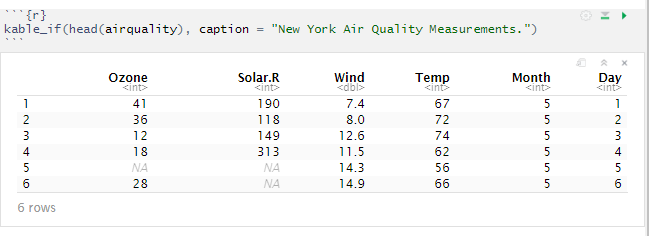
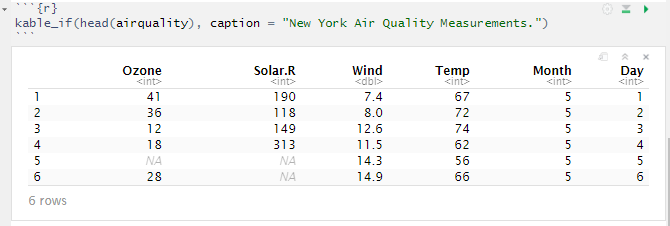
Add kable_if post

diff --git a/_posts/2019-11-17-quicker-knitr-kables-in-rstudio-notebook.md b/_posts/2019-11-17-quicker-knitr-kables-in-rstudio-notebook.md
@@ -1,0 +1,175 @@
+---
+title: "Quicker knitr kables in RStudio notebook"
+
+
+date: "November 17, 2019"
+layout: post
+---
+
+
+<section class="main-content">
+<div id="the-setup" class="section level2">
+<h2>The setup</h2>
+<p>The <a href="https://rstudio.com/">RStudio</a> notebook is a great interactive tool to build a statistical report. Being able to see statistics and graphs right on the fly probably has saved me countless hours, especially when building complex reports.</p>
+<p>However, one thing that has always bothered me was the way tables are displayed in the notebook with <a href="https://CRAN.R-project.org/package=knitr">knitr</a>’s <code>kable</code> function. For example, consider the <code>airquality</code> data set:</p>
+<div class="sourceCode"><pre class="sourceCode r"><code class="sourceCode r"><span class="kw">head</span>(airquality)</code></pre></div>
+<pre><code>##   Ozone Solar.R Wind Temp Month Day
+## 1    41     190  7.4   67     5   1
+## 2    36     118  8.0   72     5   2
+## 3    12     149 12.6   74     5   3
+## 4    18     313 11.5   62     5   4
+## 5    NA      NA 14.3   56     5   5
+## 6    28      NA 14.9   66     5   6</code></pre>
+<p>To get a nice table in your report you type</p>
+<div class="sourceCode"><pre class="sourceCode r"><code class="sourceCode r">knitr<span class="op">::</span><span class="kw">kable</span>(<span class="kw">head</span>(airquality), <span class="dt">caption =</span> <span class="st">&quot;New York Air Quality Measurements.&quot;</span>)</code></pre></div>
+<p>which shows up nicely formatted in the final output</p>
+<table>
+<caption>New York Air Quality Measurements.</caption>
+<thead>
+<tr class="header">
+<th align="right">Ozone</th>
+<th align="right">Solar.R</th>
+<th align="right">Wind</th>
+<th align="right">Temp</th>
+<th align="right">Month</th>
+<th align="right">Day</th>
+</tr>
+</thead>
+<tbody>
+<tr class="odd">
+<td align="right">41</td>
+<td align="right">190</td>
+<td align="right">7.4</td>
+<td align="right">67</td>
+<td align="right">5</td>
+<td align="right">1</td>
+</tr>
+<tr class="even">
+<td align="right">36</td>
+<td align="right">118</td>
+<td align="right">8.0</td>
+<td align="right">72</td>
+<td align="right">5</td>
+<td align="right">2</td>
+</tr>
+<tr class="odd">
+<td align="right">12</td>
+<td align="right">149</td>
+<td align="right">12.6</td>
+<td align="right">74</td>
+<td align="right">5</td>
+<td align="right">3</td>
+</tr>
+<tr class="even">
+<td align="right">18</td>
+<td align="right">313</td>
+<td align="right">11.5</td>
+<td align="right">62</td>
+<td align="right">5</td>
+<td align="right">4</td>
+</tr>
+<tr class="odd">
+<td align="right">NA</td>
+<td align="right">NA</td>
+<td align="right">14.3</td>
+<td align="right">56</td>
+<td align="right">5</td>
+<td align="right">5</td>
+</tr>
+<tr class="even">
+<td align="right">28</td>
+<td align="right">NA</td>
+<td align="right">14.9</td>
+<td align="right">66</td>
+<td align="right">5</td>
+<td align="right">6</td>
+</tr>
+</tbody>
+</table>
+<p><br></p>
+</div>
+<div id="the-problem" class="section level2">
+<h2>The problem</h2>
+<p><em>But</em> in the interactive RStudio notebook session the table looks something like the following:</p>
+<p><img src="{{ site.url }}{{ site.baseurl }}\images\kable.png" width="100%" /></p>
+<p>So first of all, the formatting is not that great. Secondly, the table chunk consumes way too much space of the notebook and, at times, can be very cumbersome to scroll. Also for bigger tables (and depending on your hardware) it can take up to a few seconds for the table to be built.</p>
+<p>So often when I was using <code>kable</code>, I felt my workflow being disrupted. In the interactive session I want a table being built quickly and in a clean format. Now, using the simple <code>print</code> function you’ll get exactly this</p>
+<p><img src="{{ site.url }}{{ site.baseurl }}\images\print-table.png" width="100%" /></p>
+<p>So my initial quick-and-dirty workaround during the interactive session was to comment out the <code>knitr</code> statement and use the print function.</p>
+<div class="sourceCode"><pre class="sourceCode r"><code class="sourceCode r"><span class="co">#knitr::kable(head(airquality), caption = &quot;New York Air Quality Measurements.&quot;)</span>
+<span class="kw">print</span>(<span class="kw">head</span>(airquality))</code></pre></div>
+<p>Then, only when creating the final report, I would comment out the <code>print</code> function and use <code>kable</code> again. Of course, there is a much more elegant and easier solution to get this without having to switch between functions.</p>
+</div>
+<div id="the-solution" class="section level2">
+<h2>The solution</h2>
+<p>We define a simple wrapper, which chooses the corresponding function depending on the context:</p>
+<div class="sourceCode"><pre class="sourceCode r"><code class="sourceCode r">kable_if &lt;-<span class="st"> </span><span class="cf">function</span>(x, ...) <span class="cf">if</span> (<span class="kw">interactive</span>()) <span class="kw">print</span>(x, ...) <span class="cf">else</span> knitr<span class="op">::</span><span class="kw">kable</span>(x, ...)</code></pre></div>
+<p>Then you simply call it as you would invoke <code>kable</code> and now you get both, the quick table in the interactive session … <img src="{{ site.url }}{{ site.baseurl }}\images\kable_if.png" width="100%" /></p>
+<p>… and a formatted table in the report.</p>
+<div class="sourceCode"><pre class="sourceCode r"><code class="sourceCode r"><span class="kw">kable_if</span>(<span class="kw">head</span>(airquality), <span class="dt">caption =</span> <span class="st">&quot;New York Air Quality Measurements.&quot;</span>)</code></pre></div>
+<table>
+<caption>New York Air Quality Measurements.</caption>
+<thead>
+<tr class="header">
+<th align="right">Ozone</th>
+<th align="right">Solar.R</th>
+<th align="right">Wind</th>
+<th align="right">Temp</th>
+<th align="right">Month</th>
+<th align="right">Day</th>
+</tr>
+</thead>
+<tbody>
+<tr class="odd">
+<td align="right">41</td>
+<td align="right">190</td>
+<td align="right">7.4</td>
+<td align="right">67</td>
+<td align="right">5</td>
+<td align="right">1</td>
+</tr>
+<tr class="even">
+<td align="right">36</td>
+<td align="right">118</td>
+<td align="right">8.0</td>
+<td align="right">72</td>
+<td align="right">5</td>
+<td align="right">2</td>
+</tr>
+<tr class="odd">
+<td align="right">12</td>
+<td align="right">149</td>
+<td align="right">12.6</td>
+<td align="right">74</td>
+<td align="right">5</td>
+<td align="right">3</td>
+</tr>
+<tr class="even">
+<td align="right">18</td>
+<td align="right">313</td>
+<td align="right">11.5</td>
+<td align="right">62</td>
+<td align="right">5</td>
+<td align="right">4</td>
+</tr>
+<tr class="odd">
+<td align="right">NA</td>
+<td align="right">NA</td>
+<td align="right">14.3</td>
+<td align="right">56</td>
+<td align="right">5</td>
+<td align="right">5</td>
+</tr>
+<tr class="even">
+<td align="right">28</td>
+<td align="right">NA</td>
+<td align="right">14.9</td>
+<td align="right">66</td>
+<td align="right">5</td>
+<td align="right">6</td>
+</tr>
+</tbody>
+</table>
+<p>That’s it. Simply put this function definition somewhere in the top of your document and enjoy a quick workflow.</p>
+</div>
+</section>
